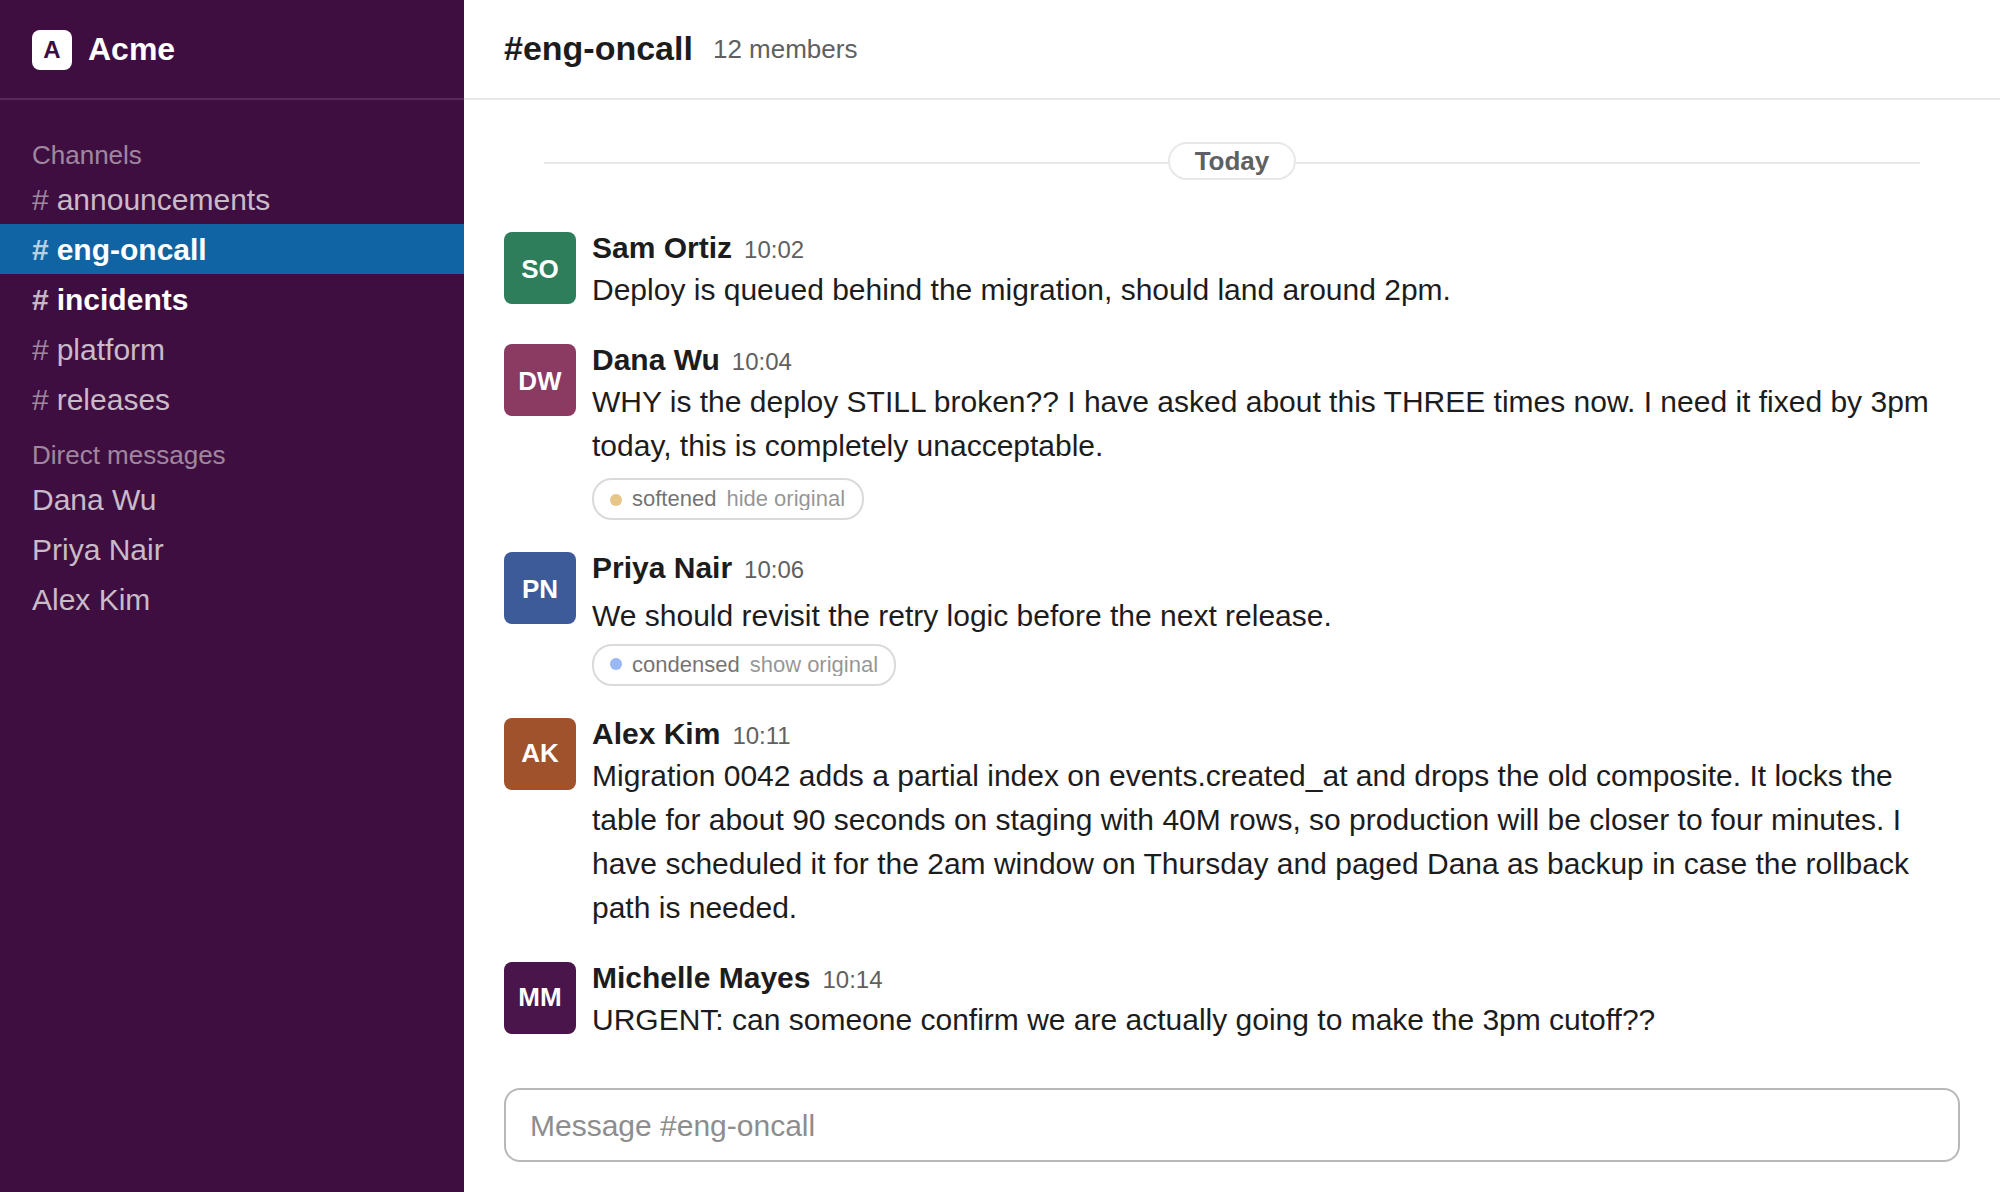
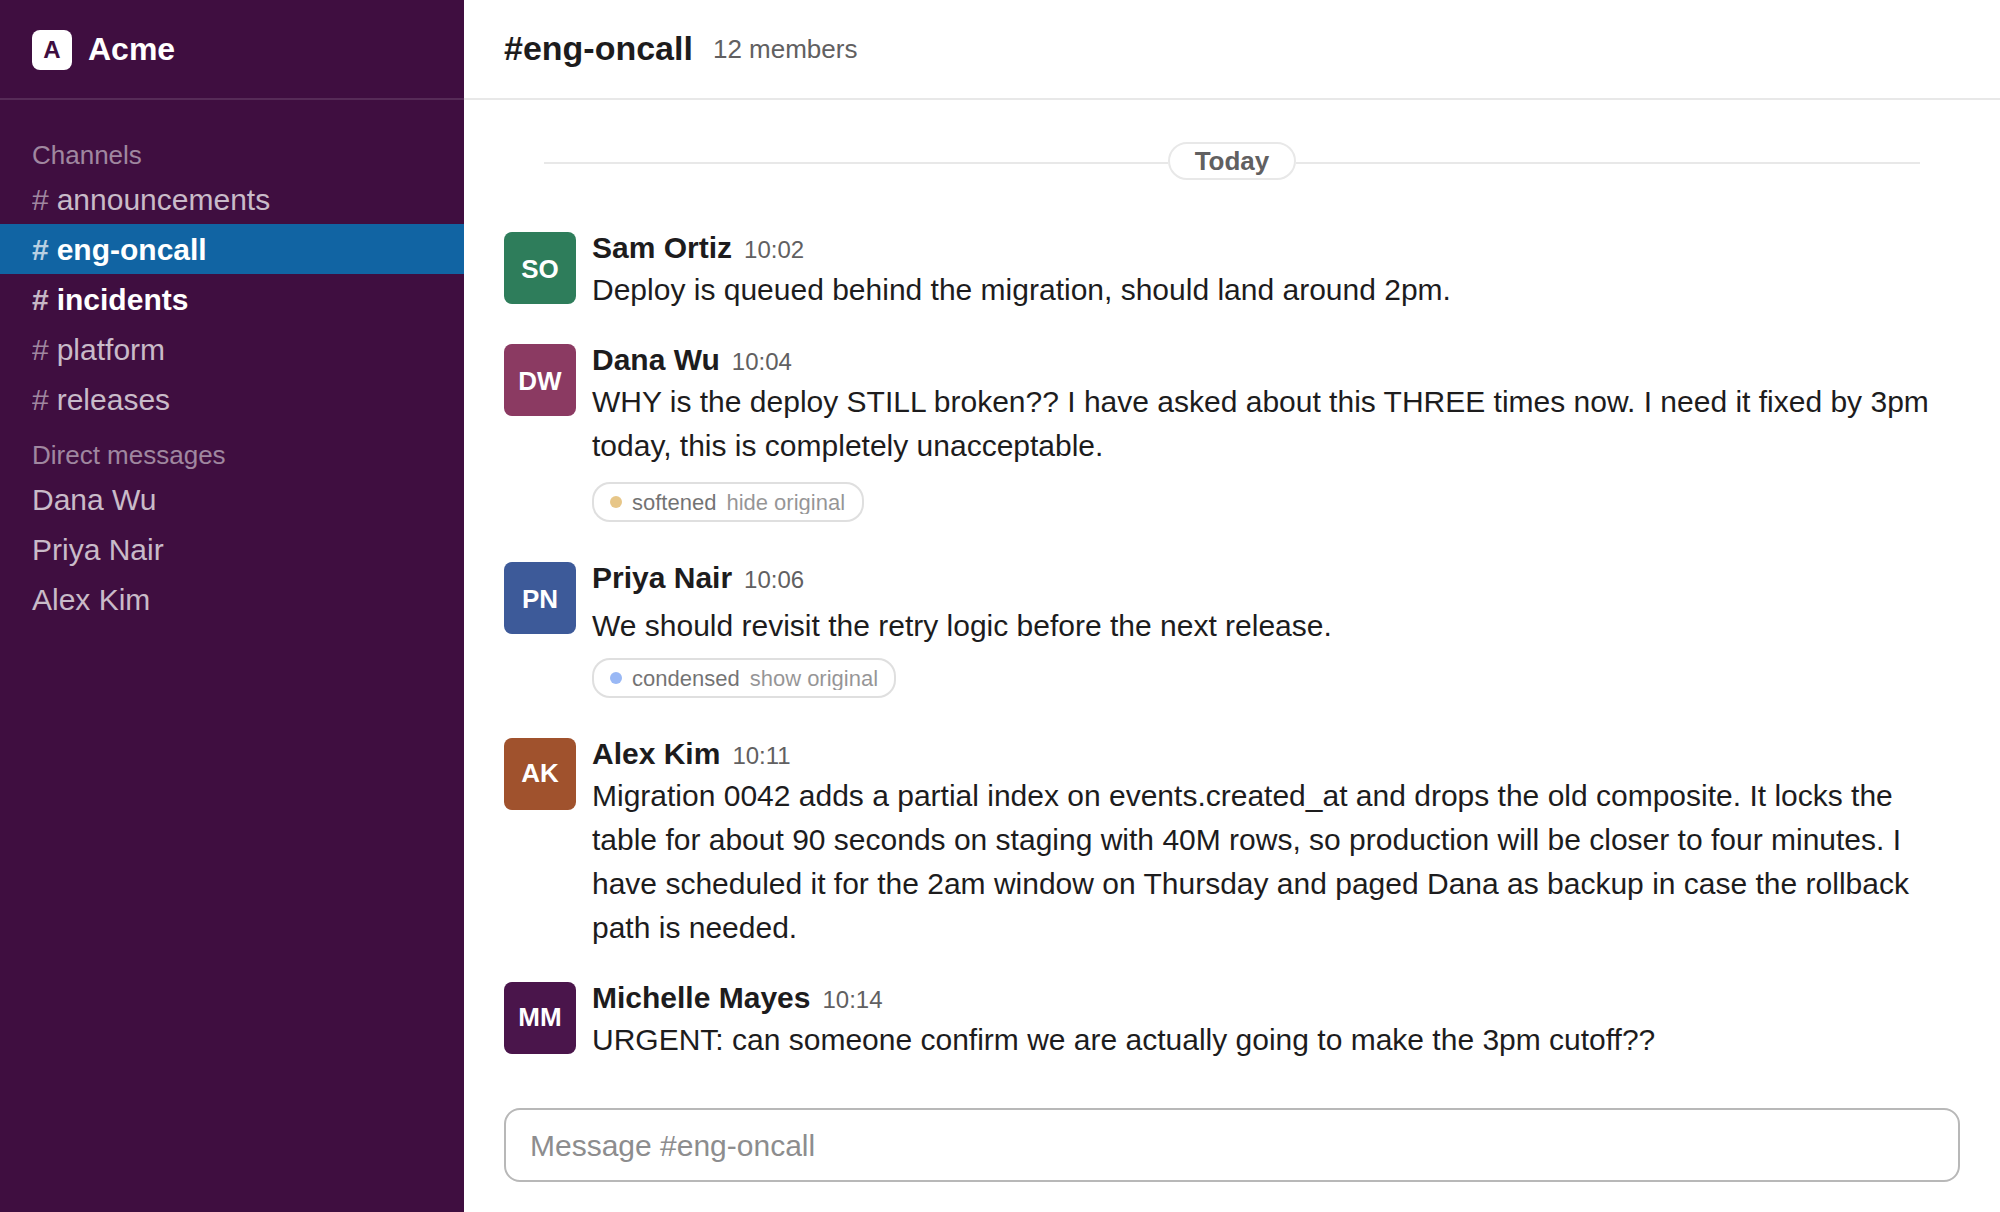
Give the badge room to breathe above Slack's reactions
Slack sets its reaction bar 4px under whatever precedes it, and a reaction
is itself a bordered pill. At 3px above and 4px below, the badge read as one
more chip in that row rather than as a note about the message, and hovering
it — which darkened the outline — made it look like it was bleeding into the
emoji cluster.

The badge now sits closer to the message it describes (5px) than to the
reactions (8px), and hover fills the pill quietly instead of drawing a
heavier border, so it never resolves as a reaction. The panel is a flex
column so the badge is a block-level box with predictable margins, rather
than an inline one whose baseline drags phantom descender space under it.

README images regenerated from the real page script.

Claude-Session: https://claude.ai/code/session_01DvhfPFFGoawPRgWpEeSgzt

diff --git a/client/inject.js b/client/inject.js
@@ -97,7 +97,13 @@
     [${ATTR_HOLD}="1"] .c-message__message_blocks,
     [${ATTR_HOLD}="1"] [${ATTR_BODY}] { display: none !important; }
 
-    .slacken-panel { margin: 2px 0 0; }
+    /* A column, so the badge is a block-level box with predictable margins
+       rather than an inline one whose baseline drags phantom descender space
+       under it. */
+    .slacken-panel {
+      display: flex; flex-direction: column; align-items: flex-start;
+      margin: 2px 0 0;
+    }
     .slacken-rewrite {
       line-height: 1.46668;
       font-size: 15px;
@@ -105,16 +111,24 @@
       word-break: break-word;
     }
     .slacken-panel[data-open="1"] .slacken-rewrite { display: none; }
+    /* Slack sets its reaction bar 4px under whatever precedes it, and a
+       reaction is itself a bordered pill. Left at 3px above and 4px below,
+       the badge read as one more chip in that row — so it sits closer to the
+       message it describes than to the reactions, and is smaller and quieter
+       than a reaction chip at every state. */
     .slacken-badge {
       display: inline-flex; align-items: center; gap: 5px;
-      margin-top: 3px; padding: 1px 8px;
-      font-size: 11px; line-height: 17px; font-weight: 500;
+      box-sizing: border-box; max-width: 100%;
+      margin: 5px 0 4px; padding: 1px 8px;
+      font-size: 11px; line-height: 16px; font-weight: 500;
       color: inherit; opacity: .62;
       background: transparent;
-      border: 1px solid rgba(127,127,127,.45); border-radius: 10px;
+      border: 1px solid rgba(127,127,127,.4); border-radius: 9px;
       cursor: pointer; user-select: none;
     }
-    .slacken-badge:hover { opacity: 1; border-color: rgba(127,127,127,.8); }
+    /* Hover fills rather than darkens the outline: a heavier border is what
+       made the badge snap into the reaction cluster below it. */
+    .slacken-badge:hover { opacity: 1; background: rgba(127,127,127,.13); }
     .slacken-badge[hidden] { display: none; }
     .slacken-dot {
       width: 6px; height: 6px; border-radius: 50%;
